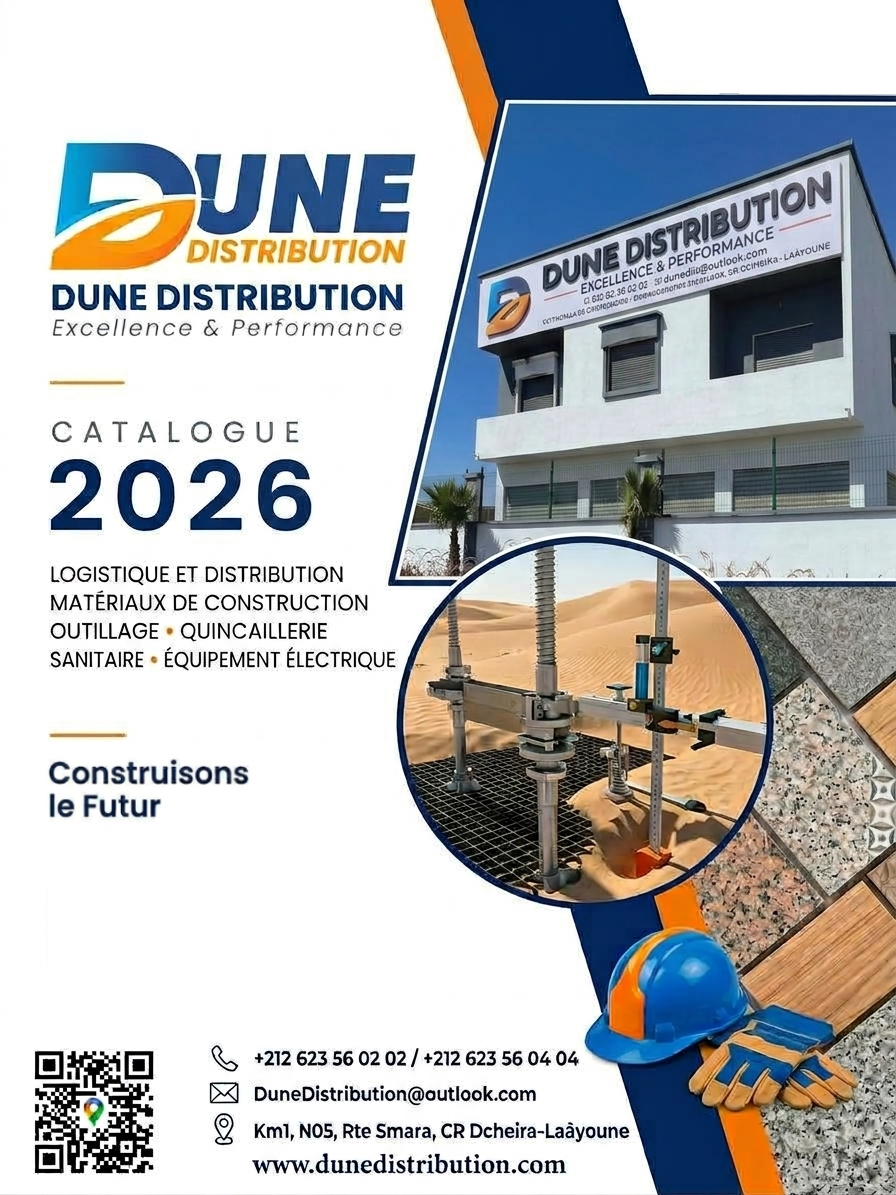
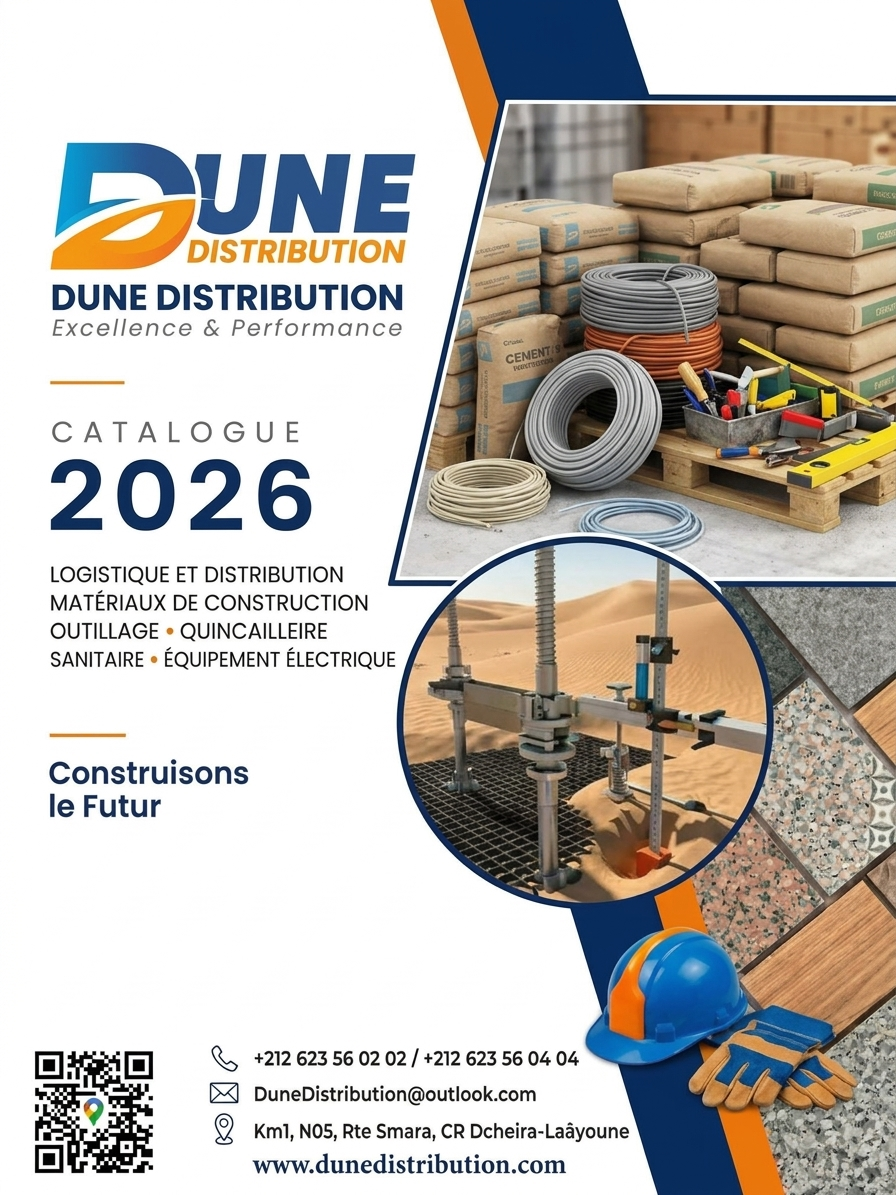
feat(catalogue): working sound toggle, share-to-clipboard toast, drop print
- useFlipSound returns a stable callback (ref mirror): react-pageflip
  captures onFlip once at mount, so muting now actually mutes on all
  three readers (interactif, dune, daoud)
- Partager: native sheet when it answers, else clipboard copy with
  'Lien copie' toast (sonner Toaster mounted per shell); bounded
  timeout + legacy execCommand fallback for hanging/blocked contexts
- Remove the Imprimer button from all three toolbars
- Refresh dune front-cover.png (client variant: materiaux photo)

diff --git a/src/components/catalogue-dune/DuneFlipbook.tsx b/src/components/catalogue-dune/DuneFlipbook.tsx
@@ -9,7 +9,6 @@ import {
   Download,
   List,
   Maximize2,
-  Printer,
   Search,
   Share2,
   Volume2,
@@ -40,6 +39,8 @@ import {
 } from "@/data/dune-catalogue";
 import { useFlipSound } from "@/components/preview-catalogue/useFlipSound";
 import { exportDuneCataloguePdf } from "./duneExport";
+import { Toaster } from "@/components/ui/sonner";
+import { shareLink } from "@/lib/share";
 
 const TITLE = "CATALOGUE DUNE DISTRIBUTION";
 
@@ -231,18 +232,7 @@ export default function DuneFlipbook({ embedded = false }: { embedded?: boolean 
   const SHEETS =
     "repeating-linear-gradient(to right, rgba(0,0,0,.16) 0 1px, rgba(255,255,255,.92) 1px 3px)";
 
-  const share = async () => {
-    const url = window.location.href;
-    if (navigator.share) {
-      try {
-        await navigator.share({ title: TITLE, url });
-        return;
-      } catch {
-        /* annulé */
-      }
-    }
-    await navigator.clipboard?.writeText(url);
-  };
+  const share = () => shareLink(TITLE);
 
   const downloadPdf = async () => {
     const stage = printRef.current;
@@ -417,15 +407,6 @@ export default function DuneFlipbook({ embedded = false }: { embedded?: boolean 
           </button>
           <button
             type="button"
-            onClick={() => window.print()}
-            title="Imprimer"
-            aria-label="Imprimer"
-            className={toolBtn}
-          >
-            <Printer className="h-[18px] w-[18px]" />
-          </button>
-          <button
-            type="button"
             title={pdf ? `Export en cours… ${pdf.done}/${pdf.total}` : "Télécharger le PDF"}
             aria-label="Télécharger le PDF"
             onClick={downloadPdf}
@@ -513,6 +494,7 @@ export default function DuneFlipbook({ embedded = false }: { embedded?: boolean 
         </div>
       )}
 
+      <Toaster position="bottom-center" />
       {finder && (
         <div className="absolute right-5 top-14 z-30 w-[min(320px,90vw)] rounded-lg border border-dune-ink/10 bg-paper p-3 shadow-xl">
           <div className="relative">

diff --git a/src/components/catalogue-daoud/DaoudFlipbook.tsx b/src/components/catalogue-daoud/DaoudFlipbook.tsx
@@ -9,7 +9,6 @@ import {
   Download,
   List,
   Maximize2,
-  Printer,
   Search,
   Share2,
   Volume2,
@@ -61,6 +60,8 @@ import {
 } from "@/data/daoud-catalogue";
 import { useFlipSound } from "@/components/preview-catalogue/useFlipSound";
 import { exportDaoudCataloguePdf } from "./daoudExport";
+import { Toaster } from "@/components/ui/sonner";
+import { shareLink } from "@/lib/share";
 
 const TITLE = "CATALOGUE DAOUD BUILDING";
 
@@ -408,18 +409,7 @@ export default function DaoudFlipbook({ embedded = false }: { embedded?: boolean
   const SHEETS =
     "repeating-linear-gradient(to right, rgba(0,0,0,.16) 0 1px, rgba(255,255,255,.92) 1px 3px)";
 
-  const share = async () => {
-    const url = window.location.href;
-    if (navigator.share) {
-      try {
-        await navigator.share({ title: TITLE, url });
-        return;
-      } catch {
-        /* annulé */
-      }
-    }
-    await navigator.clipboard?.writeText(url);
-  };
+  const share = () => shareLink(TITLE);
 
   const downloadPdf = async () => {
     const stage = printRef.current;
@@ -594,15 +584,6 @@ export default function DaoudFlipbook({ embedded = false }: { embedded?: boolean
           </button>
           <button
             type="button"
-            onClick={() => window.print()}
-            title="Imprimer"
-            aria-label="Imprimer"
-            className={toolBtn}
-          >
-            <Printer className="h-[18px] w-[18px]" />
-          </button>
-          <button
-            type="button"
             title={pdf ? `Export en cours… ${pdf.done}/${pdf.total}` : "Télécharger le PDF"}
             aria-label="Télécharger le PDF"
             onClick={downloadPdf}
@@ -690,6 +671,7 @@ export default function DaoudFlipbook({ embedded = false }: { embedded?: boolean
         </div>
       )}
 
+      <Toaster position="bottom-center" />
       {finder && (
         <div className="absolute right-5 top-14 z-30 w-[min(320px,90vw)] rounded-lg border border-db-blue/15 bg-white p-3 shadow-xl">
           <div className="relative">

diff --git a/src/components/preview-catalogue/Flipbook.tsx b/src/components/preview-catalogue/Flipbook.tsx
@@ -9,7 +9,6 @@ import {
   Download,
   List,
   Maximize2,
-  Printer,
   Search,
   Share2,
   Volume2,
@@ -17,6 +16,8 @@ import {
   X,
   ZoomIn,
 } from "lucide-react";
+import { Toaster } from "@/components/ui/sonner";
+import { shareLink } from "@/lib/share";
 import { products, type Product } from "@/data/products";
 import {
   BackCover,
@@ -495,18 +496,7 @@ export default function Flipbook({ embedded = false }: { embedded?: boolean }) {
   const SHEETS =
     "repeating-linear-gradient(to right, rgba(0,0,0,.16) 0 1px, rgba(255,255,255,.92) 1px 3px)";
 
-  const share = async () => {
-    const url = window.location.href;
-    if (navigator.share) {
-      try {
-        await navigator.share({ title: TITLE, url });
-        return;
-      } catch {
-        /* annulé par l'utilisateur */
-      }
-    }
-    await navigator.clipboard?.writeText(url);
-  };
+  const share = () => shareLink(TITLE);
 
   const downloadPdf = async () => {
     const stage = printRef.current;
@@ -662,9 +652,6 @@ export default function Flipbook({ embedded = false }: { embedded?: boolean }) {
           <ToolButton label="Partager" onClick={share}>
             <Share2 className="h-[18px] w-[18px]" />
           </ToolButton>
-          <ToolButton label="Imprimer" onClick={() => window.print()}>
-            <Printer className="h-[18px] w-[18px]" />
-          </ToolButton>
           <ToolButton
             label={pdf ? `Export en cours… ${pdf.done}/${pdf.total}` : "Télécharger le PDF"}
             onClick={downloadPdf}
@@ -746,6 +733,7 @@ export default function Flipbook({ embedded = false }: { embedded?: boolean }) {
         </div>
       )}
 
+      <Toaster position="bottom-center" />
       {finder && (
         <div className="absolute right-5 top-14 z-30 w-[min(320px,90vw)] rounded-lg border border-border bg-paper p-3 shadow-xl">
           <div className="relative">

diff --git a/src/lib/share.ts b/src/lib/share.ts
@@ -1,0 +1,49 @@
+import { toast } from "sonner";
+
+/** Repli quand le presse-papiers async est bloqué (contexte non sécurisé…). */
+function legacyCopy(text: string): boolean {
+  try {
+    const ta = document.createElement("textarea");
+    ta.value = text;
+    ta.setAttribute("readonly", "");
+    ta.style.position = "fixed";
+    ta.style.opacity = "0";
+    document.body.appendChild(ta);
+    ta.select();
+    const ok = document.execCommand("copy");
+    ta.remove();
+    return ok;
+  } catch {
+    return false;
+  }
+}
+
+/**
+ * Partage du lien de la liseuse : feuille native quand elle répond, sinon
+ * copie presse-papiers avec confirmation visible. La feuille native peut
+ * rester pendante (pas de rejet) dans certains contextes : on la borne avec
+ * un délai pour toujours retomber sur la copie.
+ */
+export async function shareLink(title: string): Promise<void> {
+  const url = window.location.href;
+  if (navigator.share) {
+    try {
+      const shared = await Promise.race([
+        navigator.share({ title, url }).then(() => true),
+        new Promise<boolean>((resolve) => setTimeout(() => resolve(false), 4000)),
+      ]);
+      if (shared) return;
+    } catch {
+      /* repli presse-papiers ci-dessous */
+    }
+  }
+  let ok = false;
+  try {
+    await navigator.clipboard.writeText(url);
+    ok = true;
+  } catch {
+    ok = legacyCopy(url);
+  }
+  if (ok) toast.success("Lien copié dans le presse-papiers");
+  else toast.error("Copie impossible");
+}

diff --git a/src/components/preview-catalogue/useFlipSound.ts b/src/components/preview-catalogue/useFlipSound.ts
@@ -117,6 +117,13 @@ export function useFlipSound(enabled: boolean) {
   const ctxRef = useRef<AudioContext | null>(null);
   const busRef = useRef<GainNode | null>(null);
   const clipsRef = useRef<Clip[]>([]);
+  /**
+   * Le rappel est stable : react-pageflip capture `onFlip` une fois au montage.
+   * Sans ça, basculer le son ne changeait rien, le livre continuant d'appeler
+   * la fermeture initiale.
+   */
+  const enabledRef = useRef(enabled);
+  enabledRef.current = enabled;
 
   // Le contexte audio ne peut naître que d'un geste utilisateur.
   useEffect(() => {
@@ -166,7 +173,7 @@ export function useFlipSound(enabled: boolean) {
   }, [enabled]);
 
   return useCallback(() => {
-    if (!enabled) return;
+    if (!enabledRef.current) return;
     const ctx = ctxRef.current;
     const bus = busRef.current;
     if (!ctx || !bus || ctx.state !== "running") return;
@@ -242,5 +249,5 @@ export function useFlipSound(enabled: boolean) {
     tap.connect(tapLp).connect(tapGain).connect(bus);
     tap.start(tapAt);
     tap.stop(tapAt + tapDur);
-  }, [enabled]);
+  }, []);
 }
